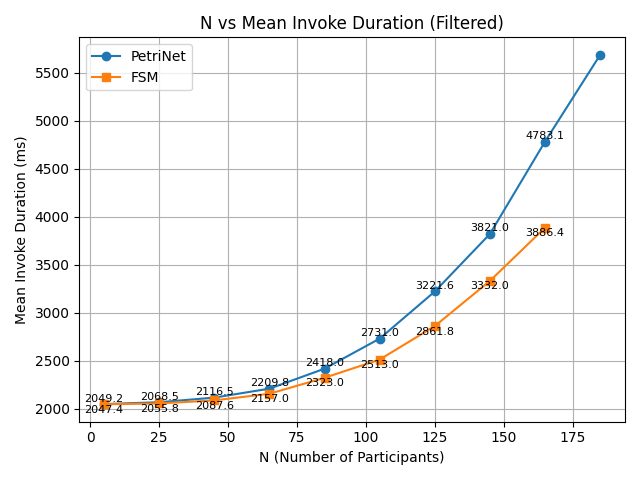
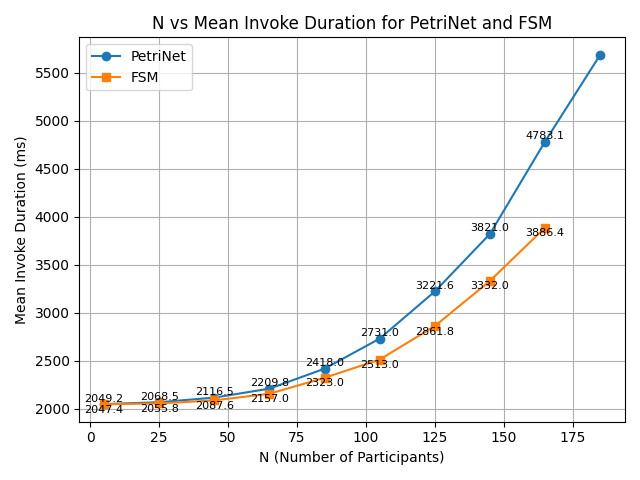
fix img

Changed region(s): [[0.2188, 0.0312, 0.875, 0.0625]]

diff --git a/Experiment/petri-stateCharts/draw-color-statecharts-dag.py b/Experiment/petri-stateCharts/draw-color-statecharts-dag.py
@@ -62,7 +62,7 @@ plt.plot(N_list_dag, mean_invoke_dag, marker="^", label="DAG")
 
 plt.xlabel("N (Number of Participants)")
 plt.ylabel("Mean Invoke Duration (ms)")
-plt.title("N vs Mean Invoke Duration (Filtered)")
+plt.title("N vs Mean Invoke Duration For Color-PetriNet, StateCharts, and DAG")
 plt.grid(True)
 plt.legend()
 
@@ -83,11 +83,11 @@ for x in sorted(points_by_x.keys()):
     y_values = sorted(points_by_x[x], key=lambda t: t[1], reverse=True)  # 按 y 值降序排列
     for idx, (label, y) in enumerate(y_values):
         if idx == 0:
-            va, dy = "bottom", 5   # 最高的往上偏移
+            va, dy = "bottom", 3   # 最高的往上偏移
         elif idx == 1:
             va, dy = "center", 0   # 中间的居中
         else:
-            va, dy = "top", -5     # 最低的往下偏移
+            va, dy = "top", -3     # 最低的往下偏移
 
         # 水平偏移可自定义，也可以不加
         if label == "PetriNet":

diff --git a/Experiment/petri-stateCharts/draw-fsm-petriNet.py b/Experiment/petri-stateCharts/draw-fsm-petriNet.py
@@ -58,7 +58,7 @@ plt.plot(N_list_fsm, mean_invoke_fsm, marker="s", label="FSM")
 
 plt.xlabel("N (Number of Participants)")
 plt.ylabel("Mean Invoke Duration (ms)")
-plt.title("N vs Mean Invoke Duration (Filtered)")
+plt.title("N vs Mean Invoke Duration for PetriNet and FSM")
 plt.grid(True)
 plt.legend()
 
